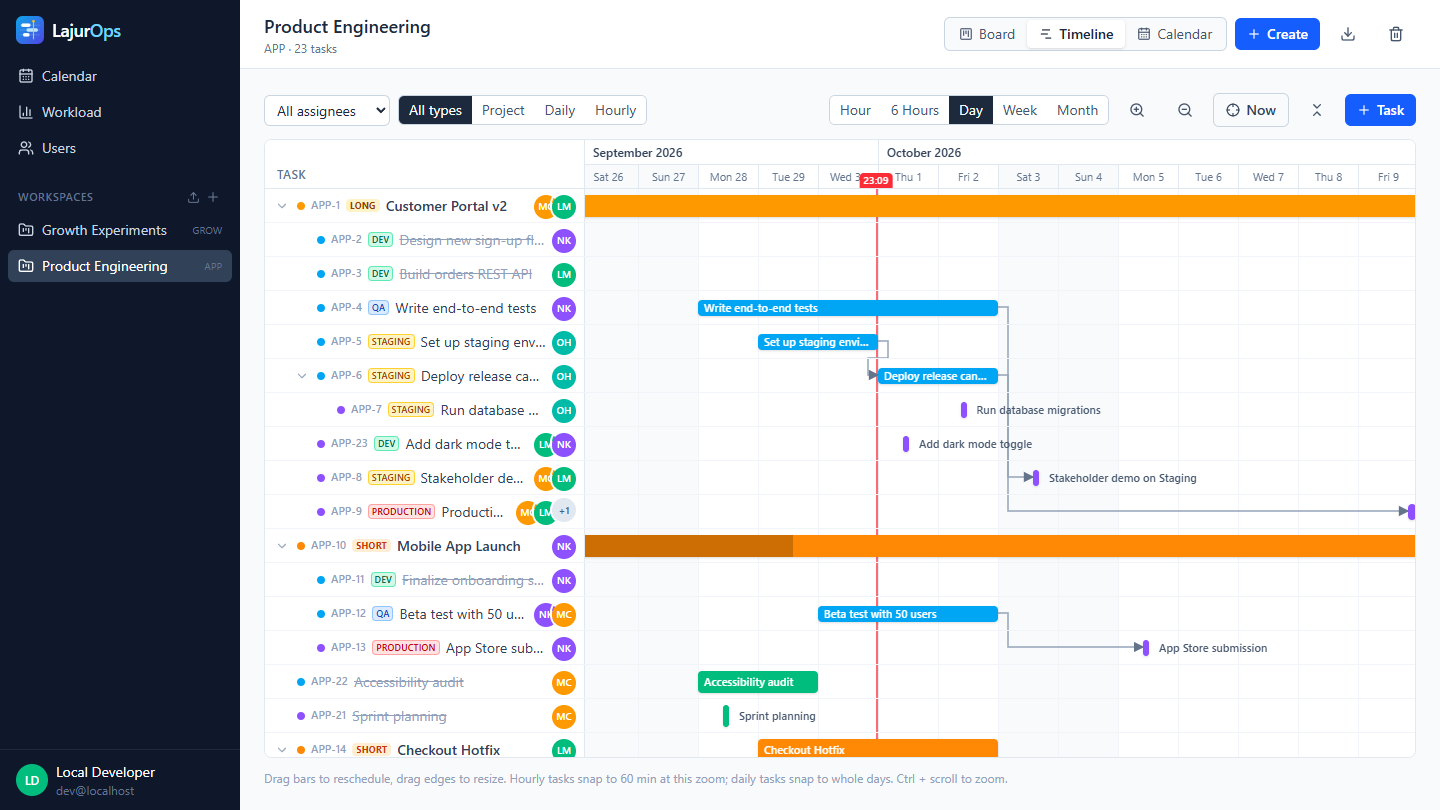
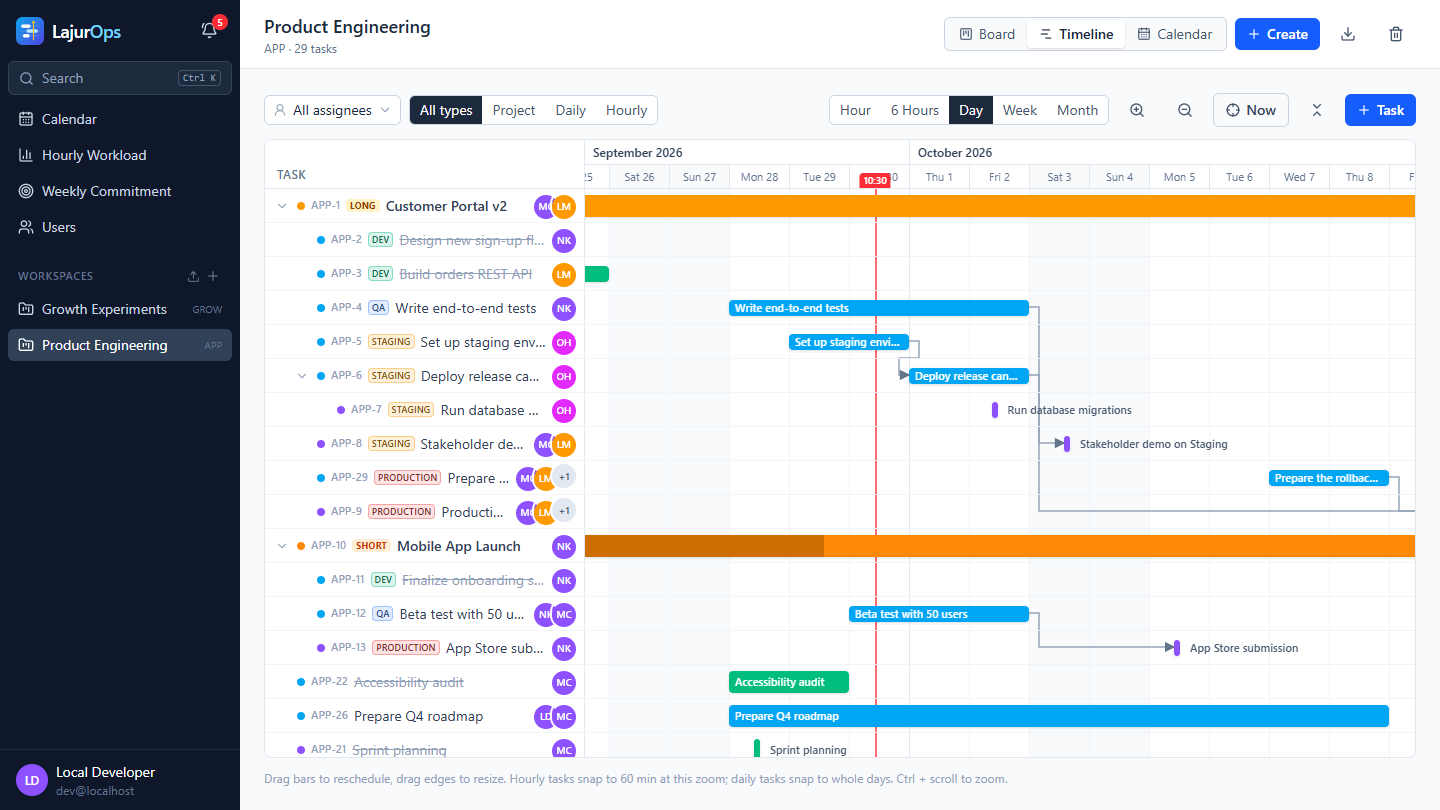
README media: re-record for v0.6, with search, notifications, runbook and commitment GIFs
- All 8 GIFs and the hero screenshot re-recorded against the current UI
  (custom dropdowns, This week board filter, new calendar grid).
- New GIFs: search palette, notifications with an @mention, a release
  runbook, Weekly Commitment.
- Comments now show an @mention; Hourly Workload shows the Unassigned row
  and the week grid.
- The demo seed adds the demo user's own week, a runbook, teammates'
  comments and notifications, and backdates rows so cards don't say
  "Created" on the recording day. The recorder sets the browser clock to
  the demo's "now" (2026-09-30 10:30), so the media can be re-recorded
  any day.

diff --git a/scripts/demo/seed.py b/scripts/demo/seed.py
@@ -18,14 +18,15 @@ def call(method, path, body=None):
 
 def psql(sql):
     return subprocess.run(['docker', 'exec', 'lajurops-demo-db', 'psql', '-U', 'planner', '-d', 'planner', '-tAc', sql],
-                          capture_output=True, text=True, check=True).stdout.strip()
+                          capture_output=True, text=True, check=True).stdout.strip().partition(chr(10))[0]
 
 
-call('GET', '/me')  # creates the (auth-disabled) dev user
+ME = call('GET', '/me')['id']  # creates the (auth-disabled) dev user, who records the demos
 people = {'maya': 'Maya Chen', 'leo': 'Leo Martins', 'nina': 'Nina Kowalski', 'omar': 'Omar Haddad'}
 for u, name in people.items():
     psql(f"INSERT INTO users (keycloak_sub, username, email, display_name) VALUES ('demo-{u}', '{u}', '{u}@example.com', '{name}') ON CONFLICT DO NOTHING")
 U = {u: psql(f"SELECT id FROM users WHERE username = '{u}'") for u in people}
+U['me'] = ME
 
 ws = call('POST', '/workspaces', {'key': 'APP', 'name': 'Product Engineering', 'description': 'Web and mobile product development'})
 call('POST', '/workspaces', {'key': 'GROW', 'name': 'Growth Experiments'})
@@ -114,5 +115,49 @@ task(title='Dependency upgrades', type='hourly', assignees=['omar'], start_at=t(
 task(title='Update API documentation', type='daily', assignees=['omar'], start_at=d('10-01'), end_at=d('10-03'))
 task(title='Sprint planning', type='hourly', status='done', assignees=['maya'], start_at=t('09-28', '10:00'), end_at=t('09-28', '12:00'))
 task(title='Accessibility audit', type='daily', status='done', assignees=['maya'], start_at=d('09-28'), end_at=d('09-30'))
+task(title='Rotate TLS certificates', type='hourly', start_at=t('10-01', '14:00'), end_at=t('10-01', '15:00'))  # nobody yet: the Unassigned row
+
+# --- The demo user's own week (Weekly Commitment; a daily task of up to 7 days is committed automatically) ---
+task(title='Review checkout analytics', type='daily', status='in_progress', assignees=['me'], start_at=d('09-29'), end_at=d('10-01'))
+notes = task(title='Write release notes for v2.0', type='daily', assignees=['me'], start_at=d('10-01'), end_at=d('10-02'))['id']
+task(title='Prepare Q4 roadmap', type='daily', assignees=['me', 'maya'], start_at=d('09-28'), end_at=d('10-09'))
+task(title='Interview backend candidates', type='daily', assignees=['me'])
+sync = task(title='Stakeholder sync', type='hourly', assignees=['me', 'maya'], start_at=t('09-30', '10:45'), end_at=t('09-30', '11:15'))['id']
+
+# --- Runbook for the production release ---
+before = call('POST', f'/tasks/{release}/runbook/sections', {'name': 'Before the window'})['id']
+during = call('POST', f'/tasks/{release}/runbook/sections', {'name': 'During the window'})['id']
+call('POST', f'/runbook/sections/{before}/steps', {'title': 'Prepare the rollback plan', 'task': {'day': '2026-10-07', 'end_day': '2026-10-08', 'tz': 'Asia/Jakarta'}})
+call('POST', f'/runbook/sections/{before}/steps', {'title': 'Freeze merges to main', 'start_at': t('10-09', '19:00'), 'duration_minutes': 15})
+call('POST', f'/runbook/sections/{before}/steps', {'title': 'Announce the window in #releases', 'start_at': t('10-09', '19:30'), 'duration_minutes': 10})
+call('POST', f'/runbook/sections/{during}/steps', {'title': 'Deploy v2.0.0 to Production', 'start_at': t('10-09', '20:00'), 'duration_minutes': 45})
+call('POST', f'/runbook/sections/{during}/steps', {'title': 'Run the smoke tests', 'start_at': t('10-09', '20:45'), 'duration_minutes': 30})
+call('POST', f'/runbook/sections/{during}/steps', {'title': 'Watch error rates and latency', 'start_at': t('10-09', '21:15'), 'duration_minutes': 60})
+
+# --- Comments from teammates, and the demo user's notifications (as of 2026-09-30 10:30) ---
+def comment_as(user, task_id, body, at):
+    body = body.replace("'", "''")
+    return psql(f"INSERT INTO task_comments (task_id, author_id, body, created_at, updated_at) VALUES ('{task_id}', '{U[user]}', '{body}', '{at}', '{at}') RETURNING id")
+
+
+def notify(typ, task_id, actor, at, data='{}'):
+    actor = f"'{U[actor]}'" if actor else 'NULL'
+    psql(f"INSERT INTO notifications (user_id, type, task_id, actor_id, data, created_at, updated_at) VALUES ('{ME}', '{typ}', '{task_id}', {actor}, '{data}', '{at}', '{at}')")
+
+
+c = comment_as('leo', release, '@dev can you double-check the rollback steps in the runbook before Friday?', '2026-09-30T10:12:00+07:00')
+notify('hourly_soon', sync, None, '2026-09-30T10:30:00+07:00', '{"start_at": "2026-09-30T10:45:00+07:00"}')
+notify('mention', release, 'leo', '2026-09-30T10:12:00+07:00', '{"excerpt": "@dev can you double-check the rollback steps in the runbook before Friday?", "comment_id": "%s"}' % c)
+notify('assigned', notes, 'maya', '2026-09-30T09:40:00+07:00')
+comment_as('nina', e2e, 'Both flaky checkout tests are fixed, the suite is green again.', '2026-09-30T08:55:00+07:00')
+notify('comment', e2e, 'nina', '2026-09-30T08:55:00+07:00', '{"changes": [{"kind": "comment", "excerpt": "Both flaky checkout tests are fixed, the suite is green again."}]}')
+notify('unblocked', fix, 'leo', '2026-09-29T16:20:00+07:00', '{"blocker": {"key": "%s", "title": "Reproduce payment timeout bug"}}' % call('GET', f'/tasks/{repro}')['key'])
+
+# Look as if the work was planned over the past weeks, not created today.
+psql("""UPDATE tasks SET created_at = LEAST(COALESCE(start_at, '2026-09-28 09:00+07') - interval '4 days', '2026-09-29 15:00+07')
+        + (random() * interval '8 hours'), updated_at = created_at""")
+psql("UPDATE task_comments SET created_at = '2026-09-29 14:20+07', updated_at = '2026-09-29 14:20+07' WHERE created_at > '2026-10-01'")
+for table in ['users', 'workspaces', 'task_dependencies', 'project_environments', 'project_categories', 'runbook_sections', 'runbook_steps']:
+    psql(f"UPDATE {table} SET created_at = '2026-08-28 09:00+07' WHERE created_at > '2026-10-01'")
 
 print(W)

diff --git a/README.md b/README.md
@@ -66,6 +66,8 @@ type: `@alice` (owner, `@me` for you), `#prod` (environment), `is:open` / `is:do
 (inside a project) and `due:this-week` / `last-week` / `next-week` / `today` / `oct` / `2026-10-08`. With an empty
 box it lists the tasks you opened recently.
 
+<img src="docs/media/search.gif" alt="Search palette: typo-tolerant search, filters like @leo and #staging, filter help, opening a result" width="900">
+
 ### Notifications
 The bell next to the logo (with an unread count, also in the browser tab title) tells you what concerns you:
 being assigned or removed, your task rescheduled, comments and **@mentions** (type `@` in a comment to pick someone),
@@ -73,6 +75,8 @@ a task you wait for being done, your hourly task or runbook step starting soon, 
 Monday Weekly Commitment nudges, and a project whose tasks are all done. You're never notified about your own
 changes, bursts are grouped ("Bob made 3 changes"), and each person chooses which types they get and how early
 reminders come. Notifications are kept for 60 days.
+
+<img src="docs/media/notifications.gif" alt="Notification bell: an @mention opens the task at the comment, then mark all read" width="900">
 
 ### Creating tasks
 Pick the type, search for the project (or daily task) it belongs to, choose the environment, schedule it with the
@@ -87,18 +91,20 @@ blocks get a copy button) and a tick for who did what. A step can also be tracke
 range of days (preparation the day before, say): the hourly task then waits for it, and ticking one completes the
 other. Save a runbook as a workspace **template** and apply it to the next release; times move with the task.
 
+<img src="docs/media/runbook.gif" alt="A release runbook: timed steps, a step tracked as a daily task, adding a step, ticking one off" width="900">
+
 ### Markdown comments
 Comment on projects, daily and hourly tasks in GitHub-flavoured Markdown (checklists, tables, code) with a
 toolbar, shortcuts and preview.
 
-<img src="docs/media/comments.gif" alt="Writing and previewing a Markdown comment" width="900">
+<img src="docs/media/comments.gif" alt="Writing a Markdown comment with an @mention, previewing and posting it" width="900">
 
 ### Hourly Workload
 Per person, per week or month: time spent on **hourly tasks** (support, deployments, implementation), plus hourly/daily
 task counts and completion. Daily tasks have no hours and are planned on Weekly Commitment. Drill into a person's tasks and
 export CSV. Tasks nobody owns are listed as **Unassigned** (also on the week grid), so open slots are easy to spot.
 
-<img src="docs/media/workload.gif" alt="Workload report: weekly and monthly, per-person drill-down" width="900">
+<img src="docs/media/workload.gif" alt="Hourly Workload: per-person drill-down, the Unassigned row, monthly view and week grid" width="900">
 
 ### Weekly Commitment
 Each person picks the daily tasks they intend to finish this week: drag them from the daily tasks assigned to them
@@ -108,6 +114,8 @@ set their capacity and add a note. A picked task without dates is scheduled Mond
 them whose last day is in the week. Planned hours are the hourly time (counted
 like the workload report) plus the daily tasks' estimates, and turn red over capacity. The **Team** view shows
 everyone's commitment, progress and notes, and **last week kept** shows how many committed tasks were done in time.
+
+<img src="docs/media/commitment.gif" alt="Weekly Commitment: automatic daily tasks, dragging one more in, sharing, the Team view" width="900">
 
 ### Backup and restore
 Export a workspace to JSON (tasks, comments, runbooks and templates included) and import it (from a file or a URL)

diff --git a/scripts/demo/README.md b/scripts/demo/README.md
@@ -13,19 +13,20 @@ docker run -d --name lajurops-demo-db --network lajurops-demo -e POSTGRES_USER=p
 docker run -d --name lajurops-demo-app --network lajurops-demo -p 8095:8080 -e AUTH_DISABLED=true \
   -e "DATABASE_URL=postgres://planner:planner@lajurops-demo-db:5432/planner?sslmode=disable" ghcr.io/fadhlanhawali/lajurops:latest
 
-# 2. demo data: a product team building an app (dates are fixed around 2026-09-30; adjust seed.py for other "today"s)
+# 2. demo data: a product team building an app, planned around Wed 2026-09-30 10:30 (the browser clock is set to it)
 python seed.py > ws.txt   # prints the APP workspace id
 
-# 3. record (all scenarios, or name some: board projects timeline calendar create-task comments workload backup)
+# 3. record (all scenarios, or name some: board projects timeline calendar create-task comments workload search notifications runbook commitment backup)
 PLAYWRIGHT_SKIP_BROWSER_DOWNLOAD=1 npm install
 node record.mjs $(cat ws.txt)
-for n in board projects timeline calendar create-task comments workload backup; do ./make-gif.sh $n; done
+for n in board projects timeline calendar create-task comments workload search notifications runbook commitment backup; do ./make-gif.sh $n; done
 node shots.mjs $(cat ws.txt)   # hero + sign-in (the sign-in page needs the Keycloak-enabled app on :8080)
 
 # 4. copy gifs/*.gif and shots/{hero-timeline,sign-in}.png into docs/media, then clean up
 docker rm -f lajurops-demo-app lajurops-demo-db && docker network rm lajurops-demo
 ```
 
-Recordings use the DevTools screencast (frame timestamps are kept, so pauses play back at real speed) and
+The browser's clock is set to the demo's "now" (2026-09-30 10:30, Asia/Jakarta), so the data looks current whenever you
+record; times the server stamps itself (e.g. "Saved" on a commitment) still show the real date. Recordings use the DevTools screencast (frame timestamps are kept, so pauses play back at real speed) and
 ffmpeg with a 128-colour palette at 960px/12 fps. Scenarios change the demo data (e.g. drag a card), so
 reset the demo database before re-recording everything.
